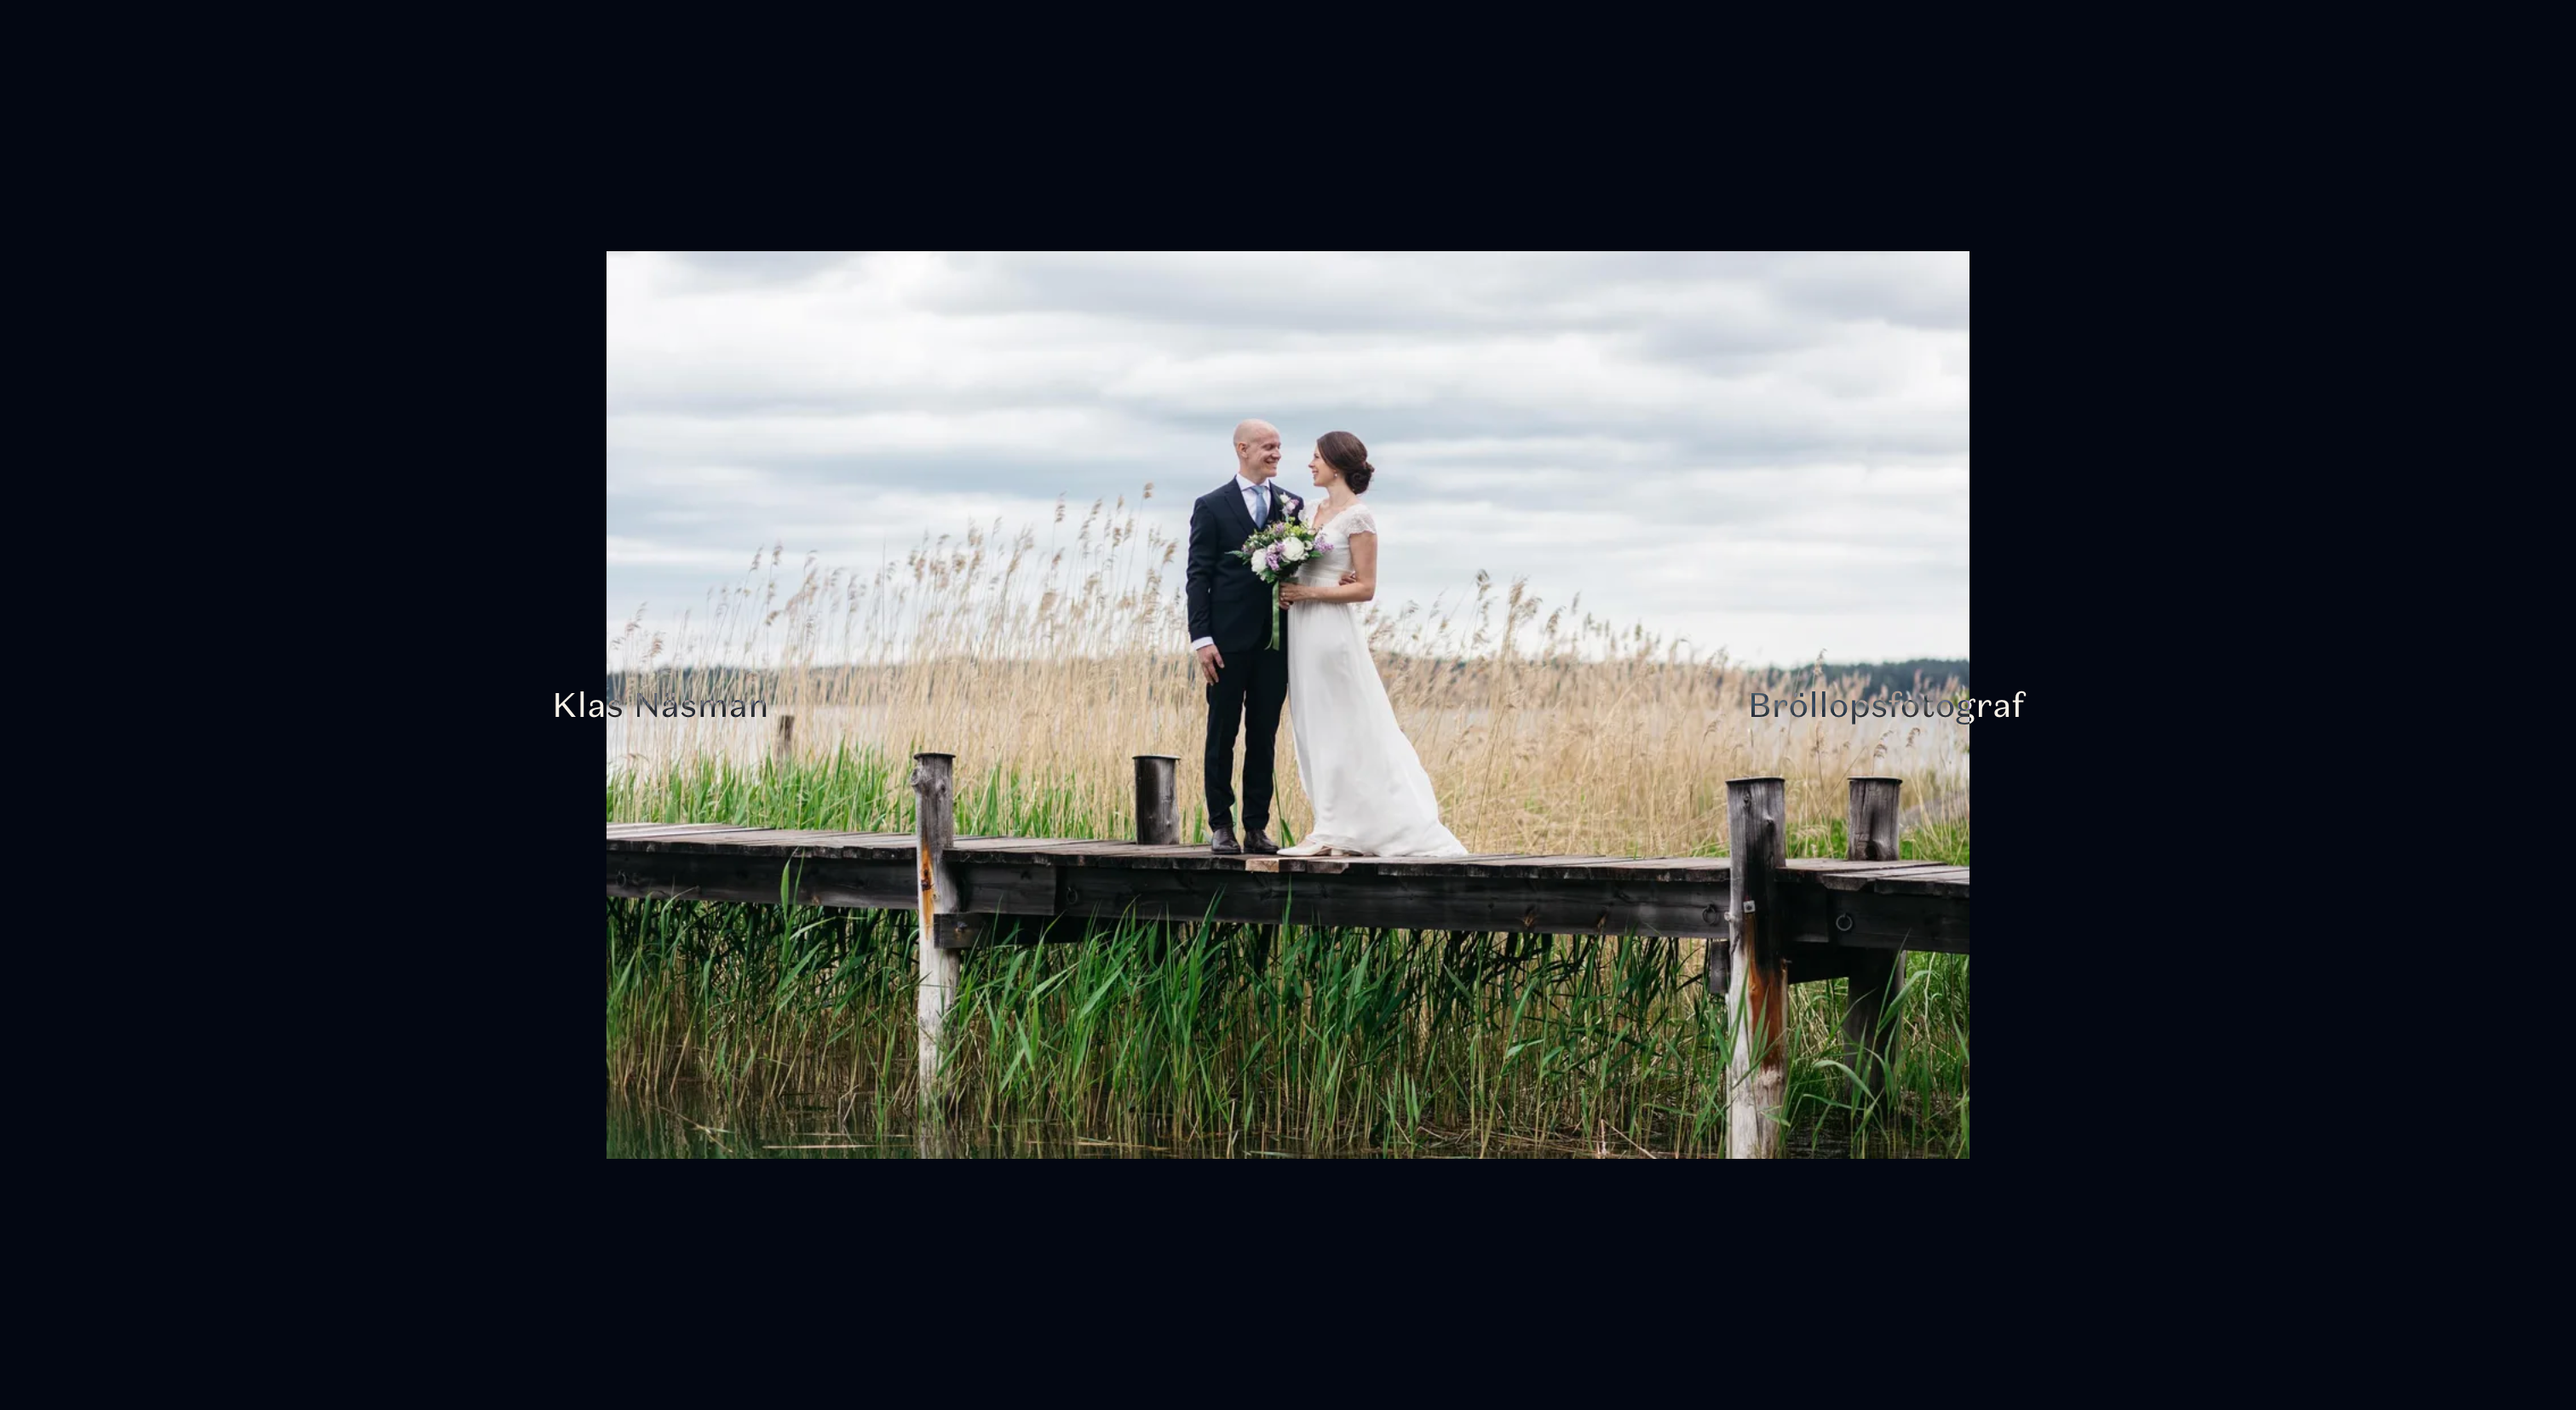
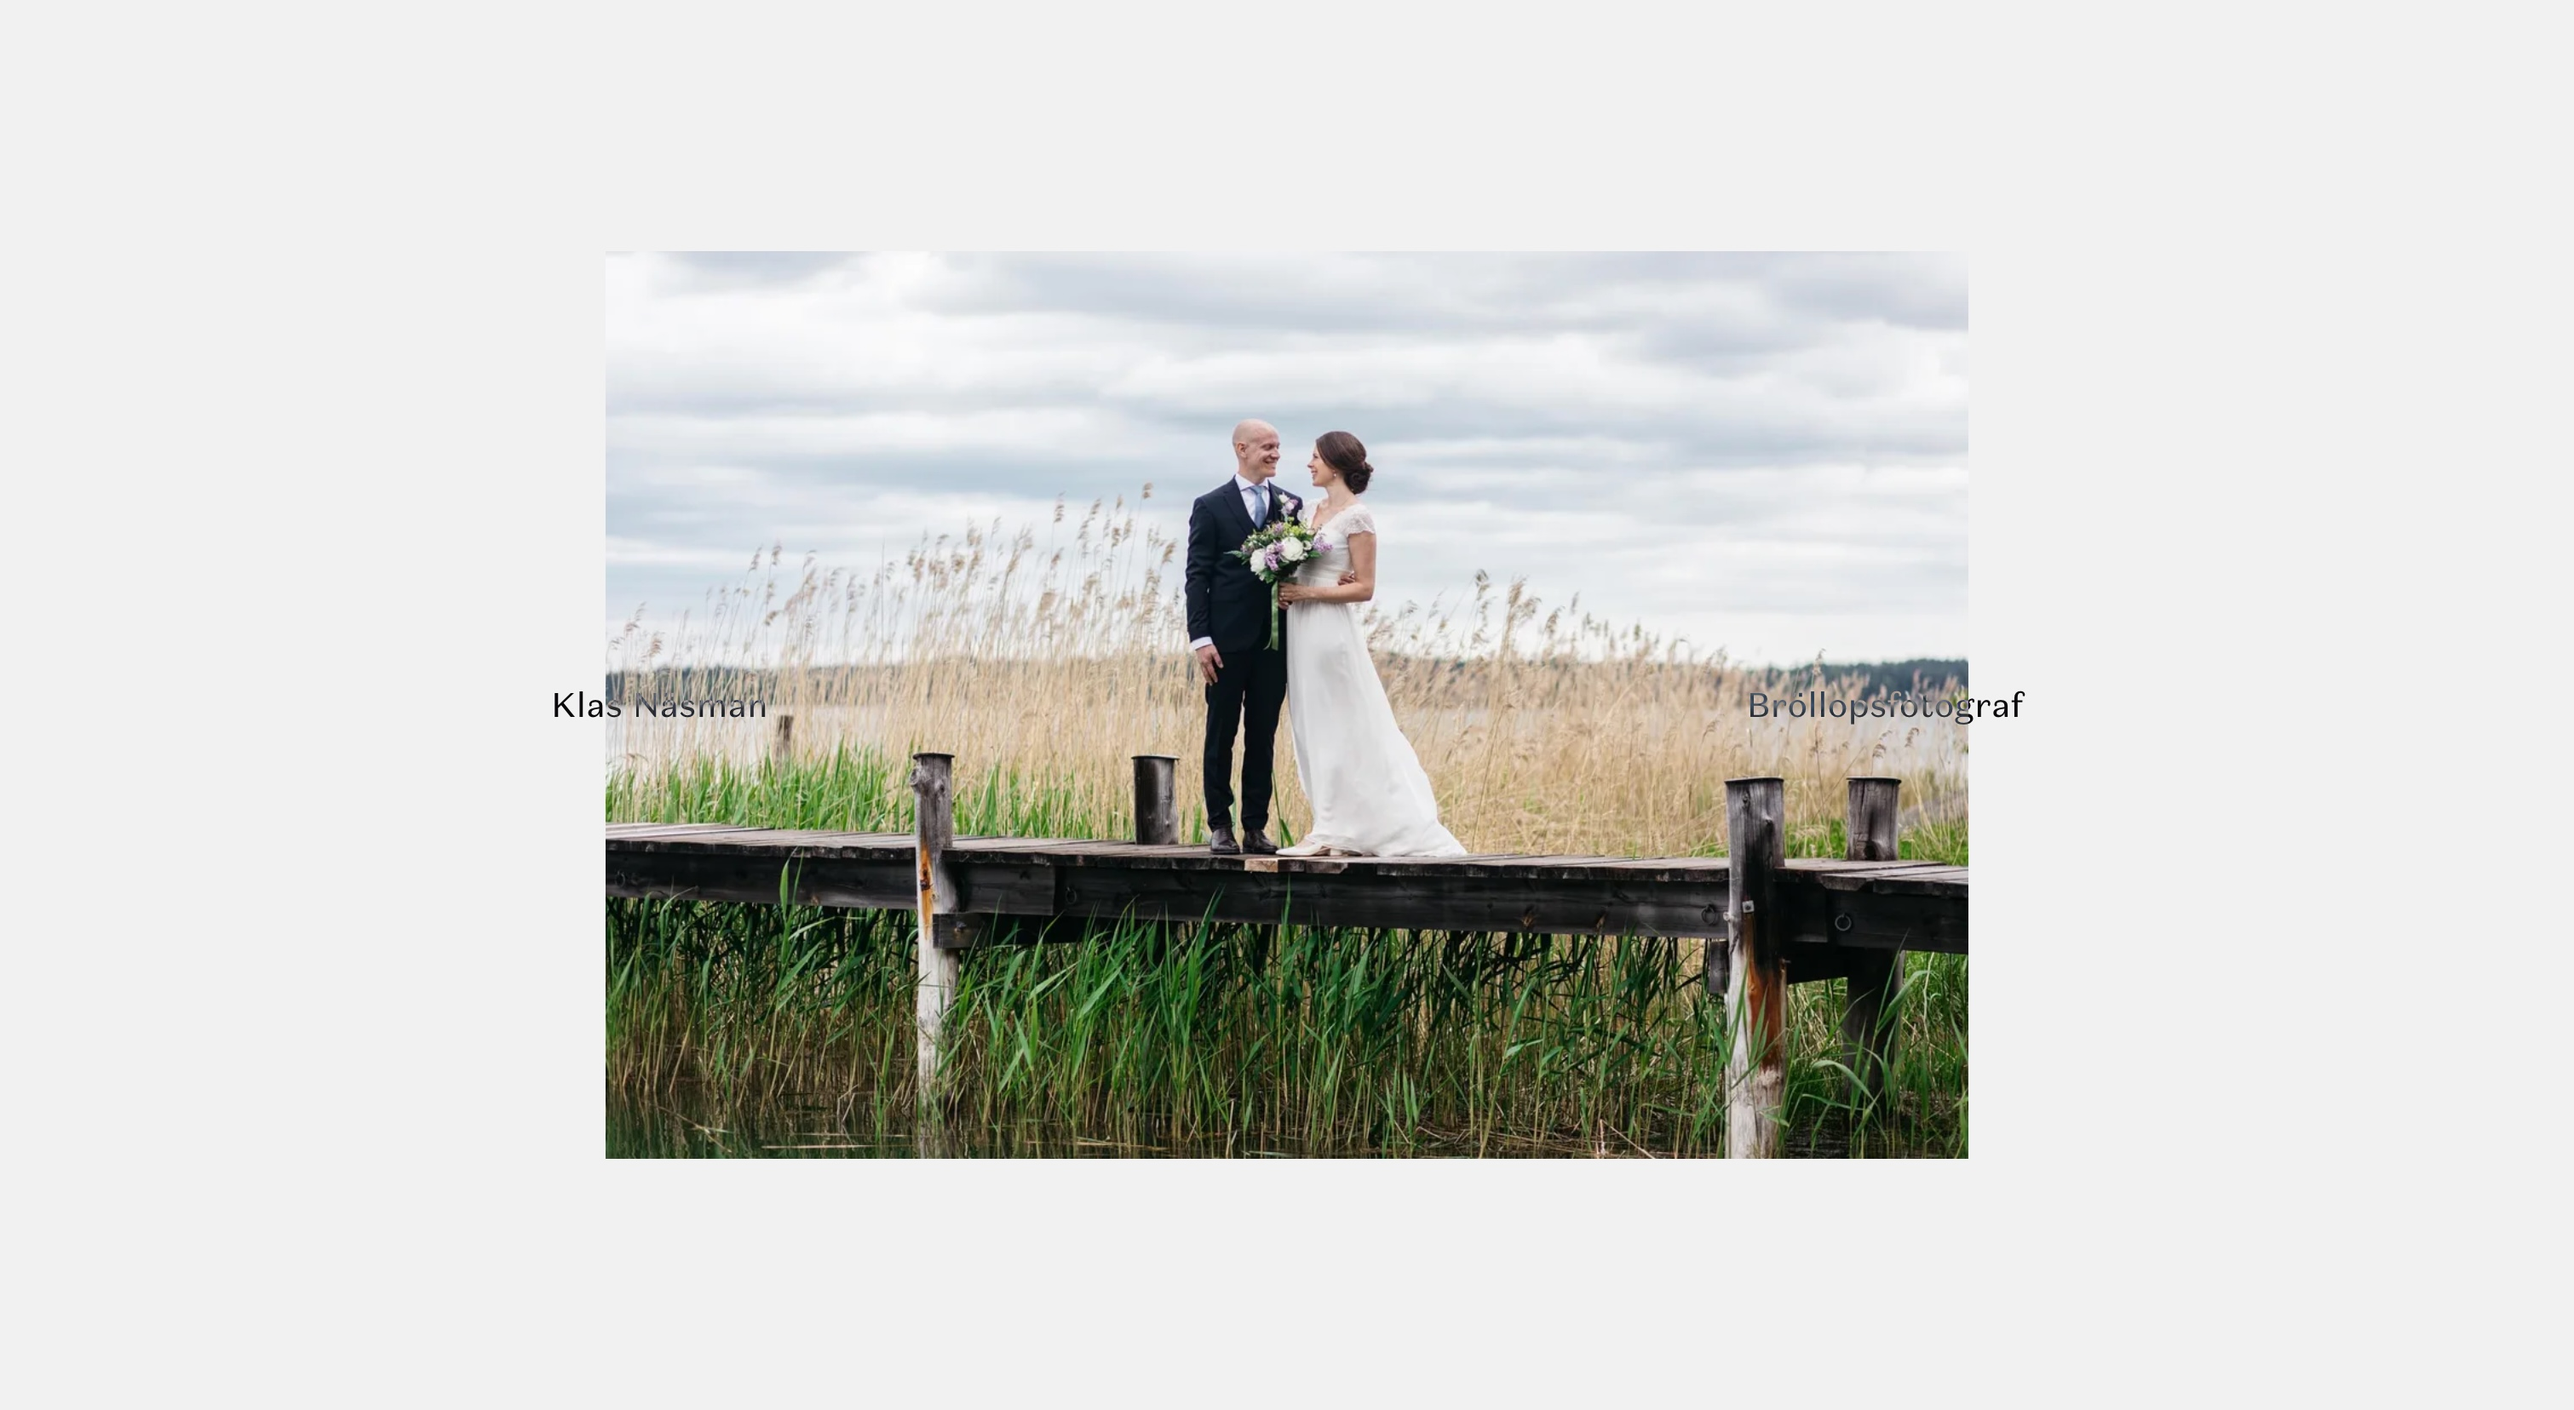
add light images

diff --git a/src/content/selected/brollopsfoto.md b/src/content/selected/brollopsfoto.md
@@ -10,6 +10,9 @@ year: 2022
 images: 
 - ../../assets/images/selected/brollopsfoto.png
 - ../../assets/images/selected/brollopsfoto02.png
+imagesDark:
+- ../../assets/images/selected/brollopsfoto.dark.png
+- ../../assets/images/selected/brollopsfoto.dark02.png
 ---
 
 Jag tar ibland på mig uppdrag som bröllopsfotograf. Den här sidan visar ett urval av de bröllop jag fotat.
